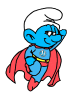
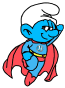
When placing towers, they now use the outOfBounds method in Calculate class. Also changed smurf images

diff --git a/core/src/com/mygdx/chalmersdefense/model/Map.java b/core/src/com/mygdx/chalmersdefense/model/Map.java
@@ -159,7 +159,7 @@ final class Map {
 
         for (IProjectile projectile : projectilesList) {
             projectileUpdateHandler(projectile);
-            if (projectile.canRemove() || Calculate.checkIfOutOfBounds(projectile)) {
+            if (projectile.canRemove() || Calculate.checkIfOutOfBounds(projectile, true)) {
                 removeProjectiles.add(projectile);
             }
         }
@@ -295,16 +295,6 @@ final class Map {
         return powerUpsActive;
     }
 
-
-//    //Check if coordinates are outside the screen
-//    private boolean checkIfOutOfBounds(float y, float x) {
-//        if (y > 1130 || -50 > y) {
-//            return true;
-//        }
-//        return x > 1970 || -50 > x;
-//    }
-
-
     //Checks if a tower collides with path
     private boolean checkMapAndTowerCollision(ITower tower) {
         for (PathRectangle rect : path.getCollisionRectangles()) {
@@ -322,12 +312,7 @@ final class Map {
             if (Calculate.objectsIntersects(tower, checkTower) && !(checkTower.hashCode() == tower.hashCode())) {
                 return true;
             }
-            //Check if tower out of bound on X
-            else if (!(0 <= (tower.getX())) || (windowWidth - 340 < (tower.getX() + tower.getWidth() / 2))) {
-                return true;
-            }
-            //Check if tower out of bound on Y
-            else if (!(windowHeight - 950 < (tower.getY() - tower.getHeight() / 2)) || (windowHeight < (tower.getY()) + tower.getHeight())) {
+            else if (Calculate.checkIfOutOfBounds(tower, false)) {
                 return true;
             }
             //check if tower collide with path

diff --git a/core/src/com/mygdx/chalmersdefense/model/modelUtilities/Calculate.java b/core/src/com/mygdx/chalmersdefense/model/modelUtilities/Calculate.java
@@ -127,12 +127,17 @@ public abstract class Calculate {
     /**
      * Checks if object is out of game field or not
      * @param object the object to be checked
+     * @param triggerOnlyOnCompleteOutside modifies the method to only trigger when object is completely outside game area
      * @return True - if the object is outside, False if the object is inside
      */
-    public static boolean checkIfOutOfBounds(IMapObject object) {
+    public static boolean checkIfOutOfBounds(IMapObject object, boolean triggerOnlyOnCompleteOutside) {
 
-        return (object.getY() > 1100 || object.getY() + object.getHeight() < 190 ||
-                object.getX() + object.getWidth() < 0 || object.getX() > 1600);
-
+        if (triggerOnlyOnCompleteOutside) {
+            return (object.getY() > 1080 || object.getY() + object.getHeight() < 190 ||
+                    object.getX() + object.getWidth() < 0 || object.getX() > 1600);
+        } else {
+            return (object.getY() + object.getHeight() > 1080 || object.getY() < 190 ||
+                    object.getX() < 0 || object.getX() + object.getWidth() > 1600);
+        }
     }
 }

diff --git a/core/src/com/mygdx/chalmersdefense/model/towers/MechTower.java b/core/src/com/mygdx/chalmersdefense/model/towers/MechTower.java
@@ -117,7 +117,7 @@ final class MechTower extends Tower {
     private float[] getRandomNonCollidingPoint() {
         float[] point = Calculate.randPoint(getX(), getY(), getRange());
         for (int i = 0; i < 100; i++) {
-            if(pathCollision(this.getWidth(),this.getHeight(), point[0],point[1]) || towerCollision(this.getWidth(),this.getHeight(), point[0],point[1]) || Calculate.checkIfOutOfBounds(new PathRectangle(point[0],point[1], 1, 1))){
+            if(pathCollision(getWidth(), getHeight(), point[0],point[1]) || towerCollision(getWidth(), getHeight(), point[0],point[1]) || Calculate.checkIfOutOfBounds(new PathRectangle(point[0],point[1], 20, 20), false)){
                 point = Calculate.randPoint(getX(), getY(), getRange());
             }
             else{
